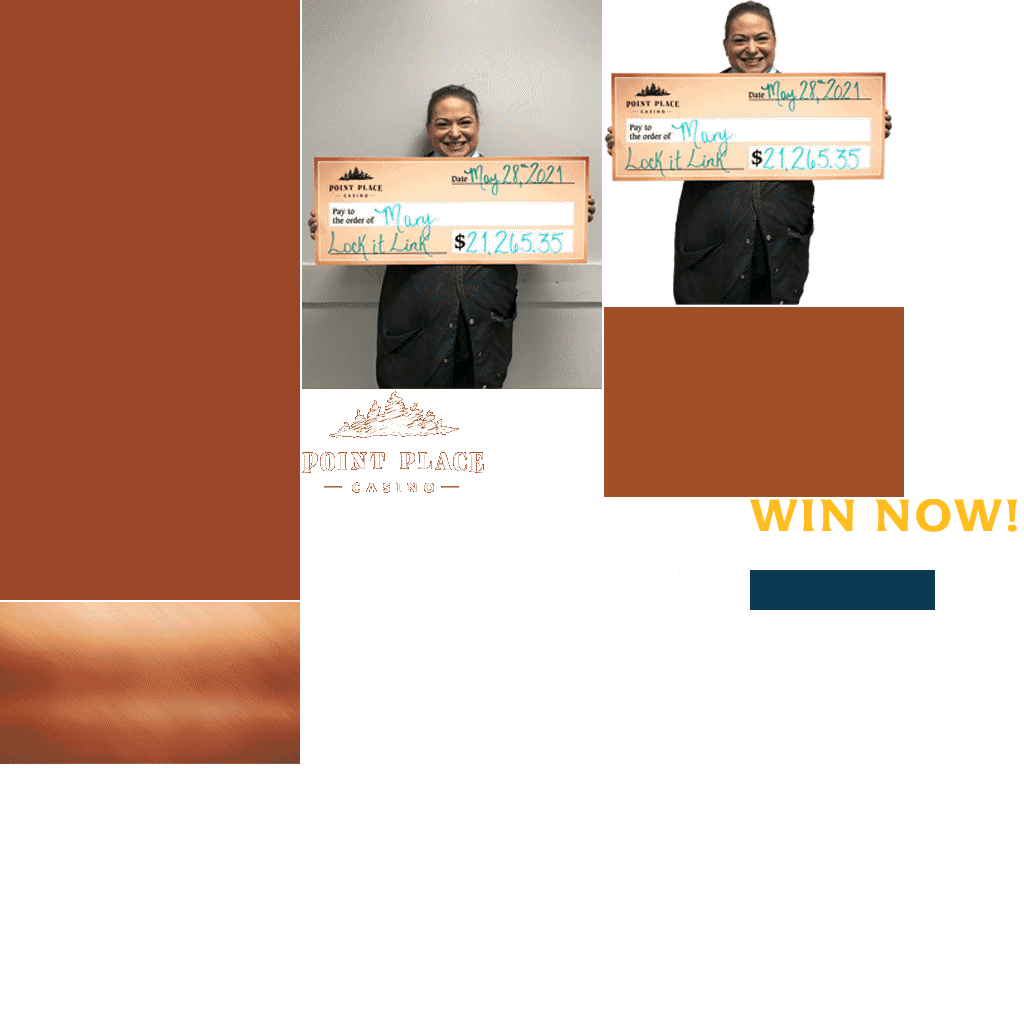
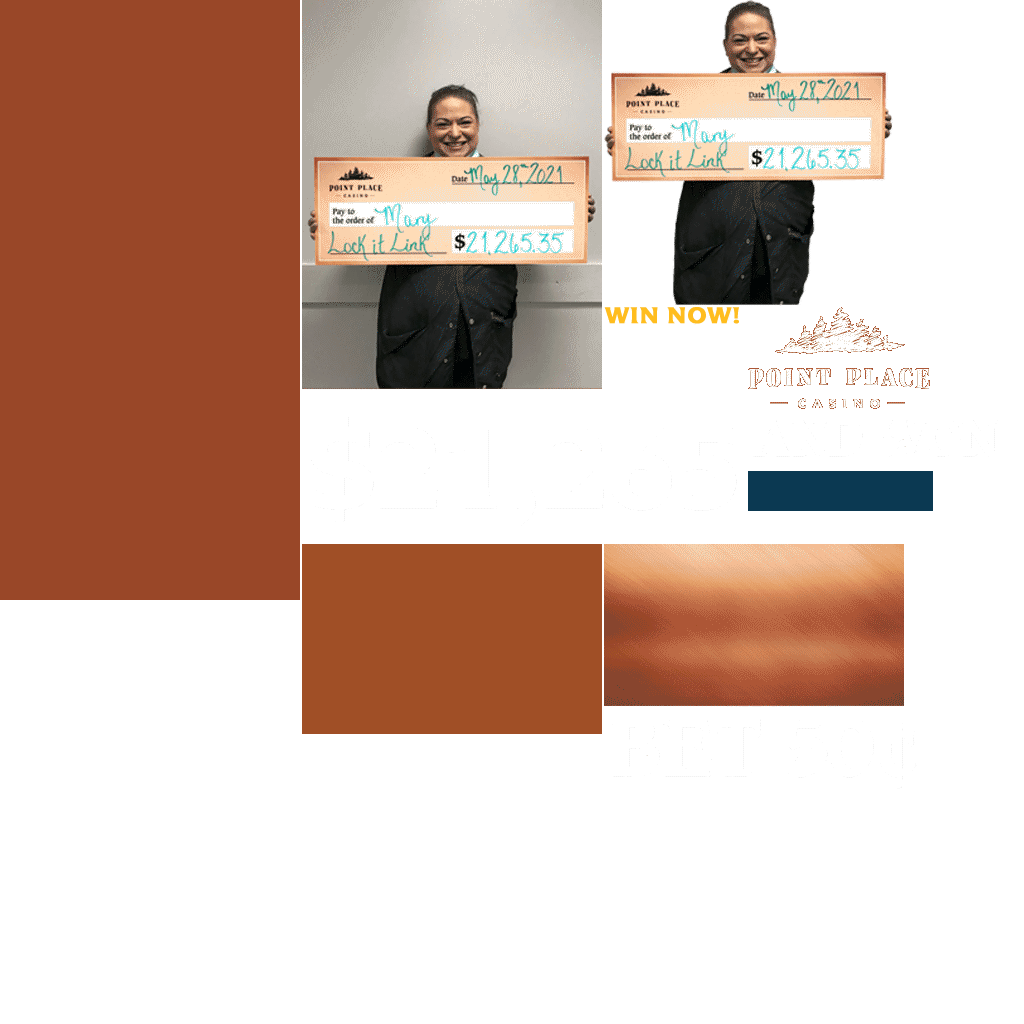
300x600

diff --git a/winners-pointplace/300x600/PPC-Mary-300x600.js b/winners-pointplace/300x600/PPC-Mary-300x600.js
@@ -3,7 +3,7 @@
 var p; // shortcut to reference prototypes
 var lib={};var ss={};var img={};
 lib.ssMetadata = [
-		{name:"PPC_Mary_300x600_atlas_1", frames: [[302,611,313,70],[750,534,219,34],[302,499,446,110],[750,499,267,33],[0,0,300,600],[302,0,300,389],[750,570,185,40],[604,307,300,190],[604,0,288,305],[302,391,182,102],[0,602,300,162]]}
+		{name:"PPC_Mary_300x600_atlas_1", frames: [[604,708,320,86],[748,411,255,58],[302,391,444,151],[0,0,300,600],[302,0,300,389],[748,471,185,40],[302,544,300,190],[604,0,288,305],[748,307,182,102],[604,544,300,162],[604,307,135,17]]}
 ];
 
 
@@ -27,77 +27,77 @@ lib.ssMetadata = [
 
 
 
-(lib.CachedBmp_66 = function() {
+(lib.CachedBmp_85 = function() {
 	this.initialize(ss["PPC_Mary_300x600_atlas_1"]);
 	this.gotoAndStop(0);
 }).prototype = p = new cjs.Sprite();
 
 
 
-(lib.CachedBmp_65 = function() {
+(lib.CachedBmp_84 = function() {
 	this.initialize(ss["PPC_Mary_300x600_atlas_1"]);
 	this.gotoAndStop(1);
 }).prototype = p = new cjs.Sprite();
 
 
 
-(lib.CachedBmp_64 = function() {
+(lib.CachedBmp_83 = function() {
 	this.initialize(ss["PPC_Mary_300x600_atlas_1"]);
 	this.gotoAndStop(2);
 }).prototype = p = new cjs.Sprite();
 
 
 
-(lib.CachedBmp_63 = function() {
+(lib.Background = function() {
 	this.initialize(ss["PPC_Mary_300x600_atlas_1"]);
 	this.gotoAndStop(3);
 }).prototype = p = new cjs.Sprite();
 
 
 
-(lib.Background = function() {
+(lib.Background_1 = function() {
 	this.initialize(ss["PPC_Mary_300x600_atlas_1"]);
 	this.gotoAndStop(4);
 }).prototype = p = new cjs.Sprite();
 
 
 
-(lib.Background_1 = function() {
+(lib.CTABlueBar = function() {
 	this.initialize(ss["PPC_Mary_300x600_atlas_1"]);
 	this.gotoAndStop(5);
 }).prototype = p = new cjs.Sprite();
 
 
 
-(lib.CTABlueBar = function() {
+(lib.CTABrownBG = function() {
 	this.initialize(ss["PPC_Mary_300x600_atlas_1"]);
 	this.gotoAndStop(6);
 }).prototype = p = new cjs.Sprite();
 
 
 
-(lib.CTABrownBG = function() {
+(lib.Cutout = function() {
 	this.initialize(ss["PPC_Mary_300x600_atlas_1"]);
 	this.gotoAndStop(7);
 }).prototype = p = new cjs.Sprite();
 
 
 
-(lib.Cutout = function() {
+(lib.PointPlace_white = function() {
 	this.initialize(ss["PPC_Mary_300x600_atlas_1"]);
 	this.gotoAndStop(8);
 }).prototype = p = new cjs.Sprite();
 
 
 
-(lib.PointPlace_white = function() {
+(lib.TopBannerBG = function() {
 	this.initialize(ss["PPC_Mary_300x600_atlas_1"]);
 	this.gotoAndStop(9);
 }).prototype = p = new cjs.Sprite();
 
 
 
-(lib.TopBannerBG = function() {
+(lib.WINNOW = function() {
 	this.initialize(ss["PPC_Mary_300x600_atlas_1"]);
 	this.gotoAndStop(10);
 }).prototype = p = new cjs.Sprite();
@@ -118,6 +118,29 @@ function getMCSymbolPrototype(symbol, nominalBounds, frameBounds) {
 	prototype.frameBounds = frameBounds;
 	return prototype;
 	}
+
+
+(lib.Tween2 = function(mode,startPosition,loop,reversed) {
+if (loop == null) { loop = true; }
+if (reversed == null) { reversed = false; }
+	var props = new Object();
+	props.mode = mode;
+	props.startPosition = startPosition;
+	props.labels = {};
+	props.loop = loop;
+	props.reversed = reversed;
+	cjs.MovieClip.apply(this,[props]);
+
+	// Layer_1
+	this.instance = new lib.WINNOW();
+	this.instance.setTransform(-67.5,-8.5);
+
+	this.timeline.addTween(cjs.Tween.get(this.instance).wait(1));
+
+	this._renderFirstFrame();
+
+}).prototype = p = new cjs.MovieClip();
+p.nominalBounds = new cjs.Rectangle(-67.5,-8.5,135,17);
 
 
 (lib.link_btn = function(mode,startPosition,loop,reversed) {
@@ -158,14 +181,14 @@ if (reversed == null) { reversed = false; }
 	cjs.MovieClip.apply(this,[props]);
 
 	// Layer_1
-	this.instance = new lib.CachedBmp_66();
-	this.instance.setTransform(-78.45,-17.7,0.5,0.5);
+	this.instance = new lib.CachedBmp_85();
+	this.instance.setTransform(-100.45,-29.7,0.5,0.5);
 
 	this.timeline.addTween(cjs.Tween.get(this.instance).wait(1));
 
 	this._renderFirstFrame();
 
-}).prototype = getMCSymbolPrototype(lib.bet50, new cjs.Rectangle(-78.4,-17.7,156.5,35), null);
+}).prototype = getMCSymbolPrototype(lib.bet50, new cjs.Rectangle(-100.4,-29.7,160,43), null);
 
 
 (lib.ANDWON = function(mode,startPosition,loop,reversed) {
@@ -180,14 +203,14 @@ if (reversed == null) { reversed = false; }
 	cjs.MovieClip.apply(this,[props]);
 
 	// Layer_1
-	this.instance = new lib.CachedBmp_65();
-	this.instance.setTransform(-55.1,-8.45,0.5,0.5);
+	this.instance = new lib.CachedBmp_84();
+	this.instance.setTransform(-69.35,-15.55,0.5,0.5);
 
 	this.timeline.addTween(cjs.Tween.get(this.instance).wait(1));
 
 	this._renderFirstFrame();
 
-}).prototype = getMCSymbolPrototype(lib.ANDWON, new cjs.Rectangle(-55.1,-8.4,109.5,17), null);
+}).prototype = getMCSymbolPrototype(lib.ANDWON, new cjs.Rectangle(-69.3,-15.5,127.5,29), null);
 
 
 (lib._21265 = function(mode,startPosition,loop,reversed) {
@@ -202,36 +225,14 @@ if (reversed == null) { reversed = false; }
 	cjs.MovieClip.apply(this,[props]);
 
 	// Layer_1
-	this.instance = new lib.CachedBmp_64();
-	this.instance.setTransform(-111.85,-27.4,0.5,0.5);
+	this.instance = new lib.CachedBmp_83();
+	this.instance.setTransform(-133.35,-40.65,0.5,0.5);
 
 	this.timeline.addTween(cjs.Tween.get(this.instance).wait(1));
 
 	this._renderFirstFrame();
 
-}).prototype = getMCSymbolPrototype(lib._21265, new cjs.Rectangle(-111.8,-27.4,223,55), null);
-
-
-(lib.WINNOW = function(mode,startPosition,loop,reversed) {
-if (loop == null) { loop = true; }
-if (reversed == null) { reversed = false; }
-	var props = new Object();
-	props.mode = mode;
-	props.startPosition = startPosition;
-	props.labels = {};
-	props.loop = loop;
-	props.reversed = reversed;
-	cjs.MovieClip.apply(this,[props]);
-
-	// Layer_1
-	this.instance = new lib.CachedBmp_63();
-	this.instance.setTransform(-66.7,-8.25,0.5,0.5);
-
-	this.timeline.addTween(cjs.Tween.get(this.instance).wait(1));
-
-	this._renderFirstFrame();
-
-}).prototype = getMCSymbolPrototype(lib.WINNOW, new cjs.Rectangle(-66.7,-8.2,133.5,16.5), null);
+}).prototype = getMCSymbolPrototype(lib._21265, new cjs.Rectangle(-133.3,-40.6,222,75.5), null);
 
 
 (lib.Cutout_1 = function(mode,startPosition,loop,reversed) {
@@ -338,11 +339,11 @@ if (reversed == null) { reversed = false; }
 	this.timeline.addTween(cjs.Tween.get(this.link_btn).wait(120));
 
 	// WIN_NOW_
-	this.instance = new lib.WINNOW();
-	this.instance.setTransform(148.5,635);
+	this.instance = new lib.Tween2("synched",0);
+	this.instance.setTransform(148.5,636);
 	this.instance._off = true;
 
-	this.timeline.addTween(cjs.Tween.get(this.instance).wait(47).to({_off:false},0).to({y:564},12,cjs.Ease.backOut).wait(61));
+	this.timeline.addTween(cjs.Tween.get(this.instance).wait(47).to({_off:false},0).to({y:564.5},12,cjs.Ease.backOut).wait(61));
 
 	// CTA_Blue_Bar
 	this.instance_1 = new lib.CTABlueBar_1();
@@ -353,26 +354,26 @@ if (reversed == null) { reversed = false; }
 
 	// $21_265
 	this.instance_2 = new lib._21265();
-	this.instance_2.setTransform(150.45,119,0.0045,0.0182);
-	this.instance_2.shadow = new cjs.Shadow("#000000",1,1,11);
+	this.instance_2.setTransform(150.05,116.35,0.0045,0.0132,0,0,0,-11.1,0);
+	this.instance_2.shadow = new cjs.Shadow("rgba(0,0,0,1)",1,1,12);
 	this.instance_2._off = true;
 
-	this.timeline.addTween(cjs.Tween.get(this.instance_2).wait(24).to({_off:false},0).to({regX:-0.2,scaleX:1,scaleY:1,x:150.3},23,cjs.Ease.elasticOut).wait(73));
+	this.timeline.addTween(cjs.Tween.get(this.instance_2).wait(24).to({_off:false},0).to({regX:-22.4,regY:-2.9,scaleX:1,scaleY:1,x:150,y:113.5},23,cjs.Ease.elasticOut).wait(73));
 
 	// AND_WON
 	this.instance_3 = new lib.ANDWON();
-	this.instance_3.setTransform(363.7,72.4,1,1,0,0,0,-0.3,-0.1);
-	this.instance_3.shadow = new cjs.Shadow("rgba(0,0,0,1)",1,1,11);
+	this.instance_3.setTransform(366.2,72.7,1,1,0,0,0,-5.8,-1.1);
+	this.instance_3.shadow = new cjs.Shadow("rgba(0,0,0,1)",1,1,12);
 	this.instance_3._off = true;
 
-	this.timeline.addTween(cjs.Tween.get(this.instance_3).wait(12).to({_off:false},0).to({x:149.7},12,cjs.Ease.backOut).wait(96));
+	this.timeline.addTween(cjs.Tween.get(this.instance_3).wait(12).to({_off:false},0).to({x:149.95},12,cjs.Ease.backOut).wait(96));
 
 	// bet_50_
 	this.instance_4 = new lib.bet50();
-	this.instance_4.setTransform(-93.1,35.8,1,1,0,0,0,-0.1,-0.2);
-	this.instance_4.shadow = new cjs.Shadow("rgba(0,0,0,1)",1,1,11);
+	this.instance_4.setTransform(-93.6,41,1,1,0,0,0,-20.6,-2.8);
+	this.instance_4.shadow = new cjs.Shadow("rgba(0,0,0,1)",1,1,12);
 
-	this.timeline.addTween(cjs.Tween.get(this.instance_4).to({x:150.9},12,cjs.Ease.backOut).wait(108));
+	this.timeline.addTween(cjs.Tween.get(this.instance_4).to({x:149.95},12,cjs.Ease.backOut).wait(108));
 
 	// PointPlace_white_
 	this.instance_5 = new lib.PointPlace_white();
@@ -411,7 +412,7 @@ if (reversed == null) { reversed = false; }
 	this._renderFirstFrame();
 
 }).prototype = p = new lib.AnMovieClip();
-p.nominalBounds = new cjs.Rectangle(-45.4,294.3,496.29999999999995,361.7);
+p.nominalBounds = new cjs.Rectangle(-49.4,288.1,514.1,367.9);
 // library properties:
 lib.properties = {
 	id: 'BB2B03C1CCE84AF7BF77BF1D4670AA18',
@@ -421,7 +422,7 @@ lib.properties = {
 	color: "#FFFFFF",
 	opacity: 1.00,
 	manifest: [
-		{src:"images/PPC_Mary_300x600_atlas_1.png?1623158311395", id:"PPC_Mary_300x600_atlas_1"}
+		{src:"images/PPC_Mary_300x600_atlas_1.png?1623166319452", id:"PPC_Mary_300x600_atlas_1"}
 	],
 	preloads: []
 };

diff --git a/winners-pointplace/300x600/index.html b/winners-pointplace/300x600/index.html
@@ -14,7 +14,7 @@
 <title>PPC-Mary-300x600</title>
 <!-- write your code here -->
 <script src="https://code.createjs.com/1.0.0/createjs.min.js"></script>
-<script src="PPC-Mary-300x600.js?1623158311419"></script>
+<script src="PPC-Mary-300x600.js?1623166319477"></script>
 <script>
 var canvas, stage, exportRoot, anim_container, dom_overlay_container, fnStartAnimation;
 function init() {
